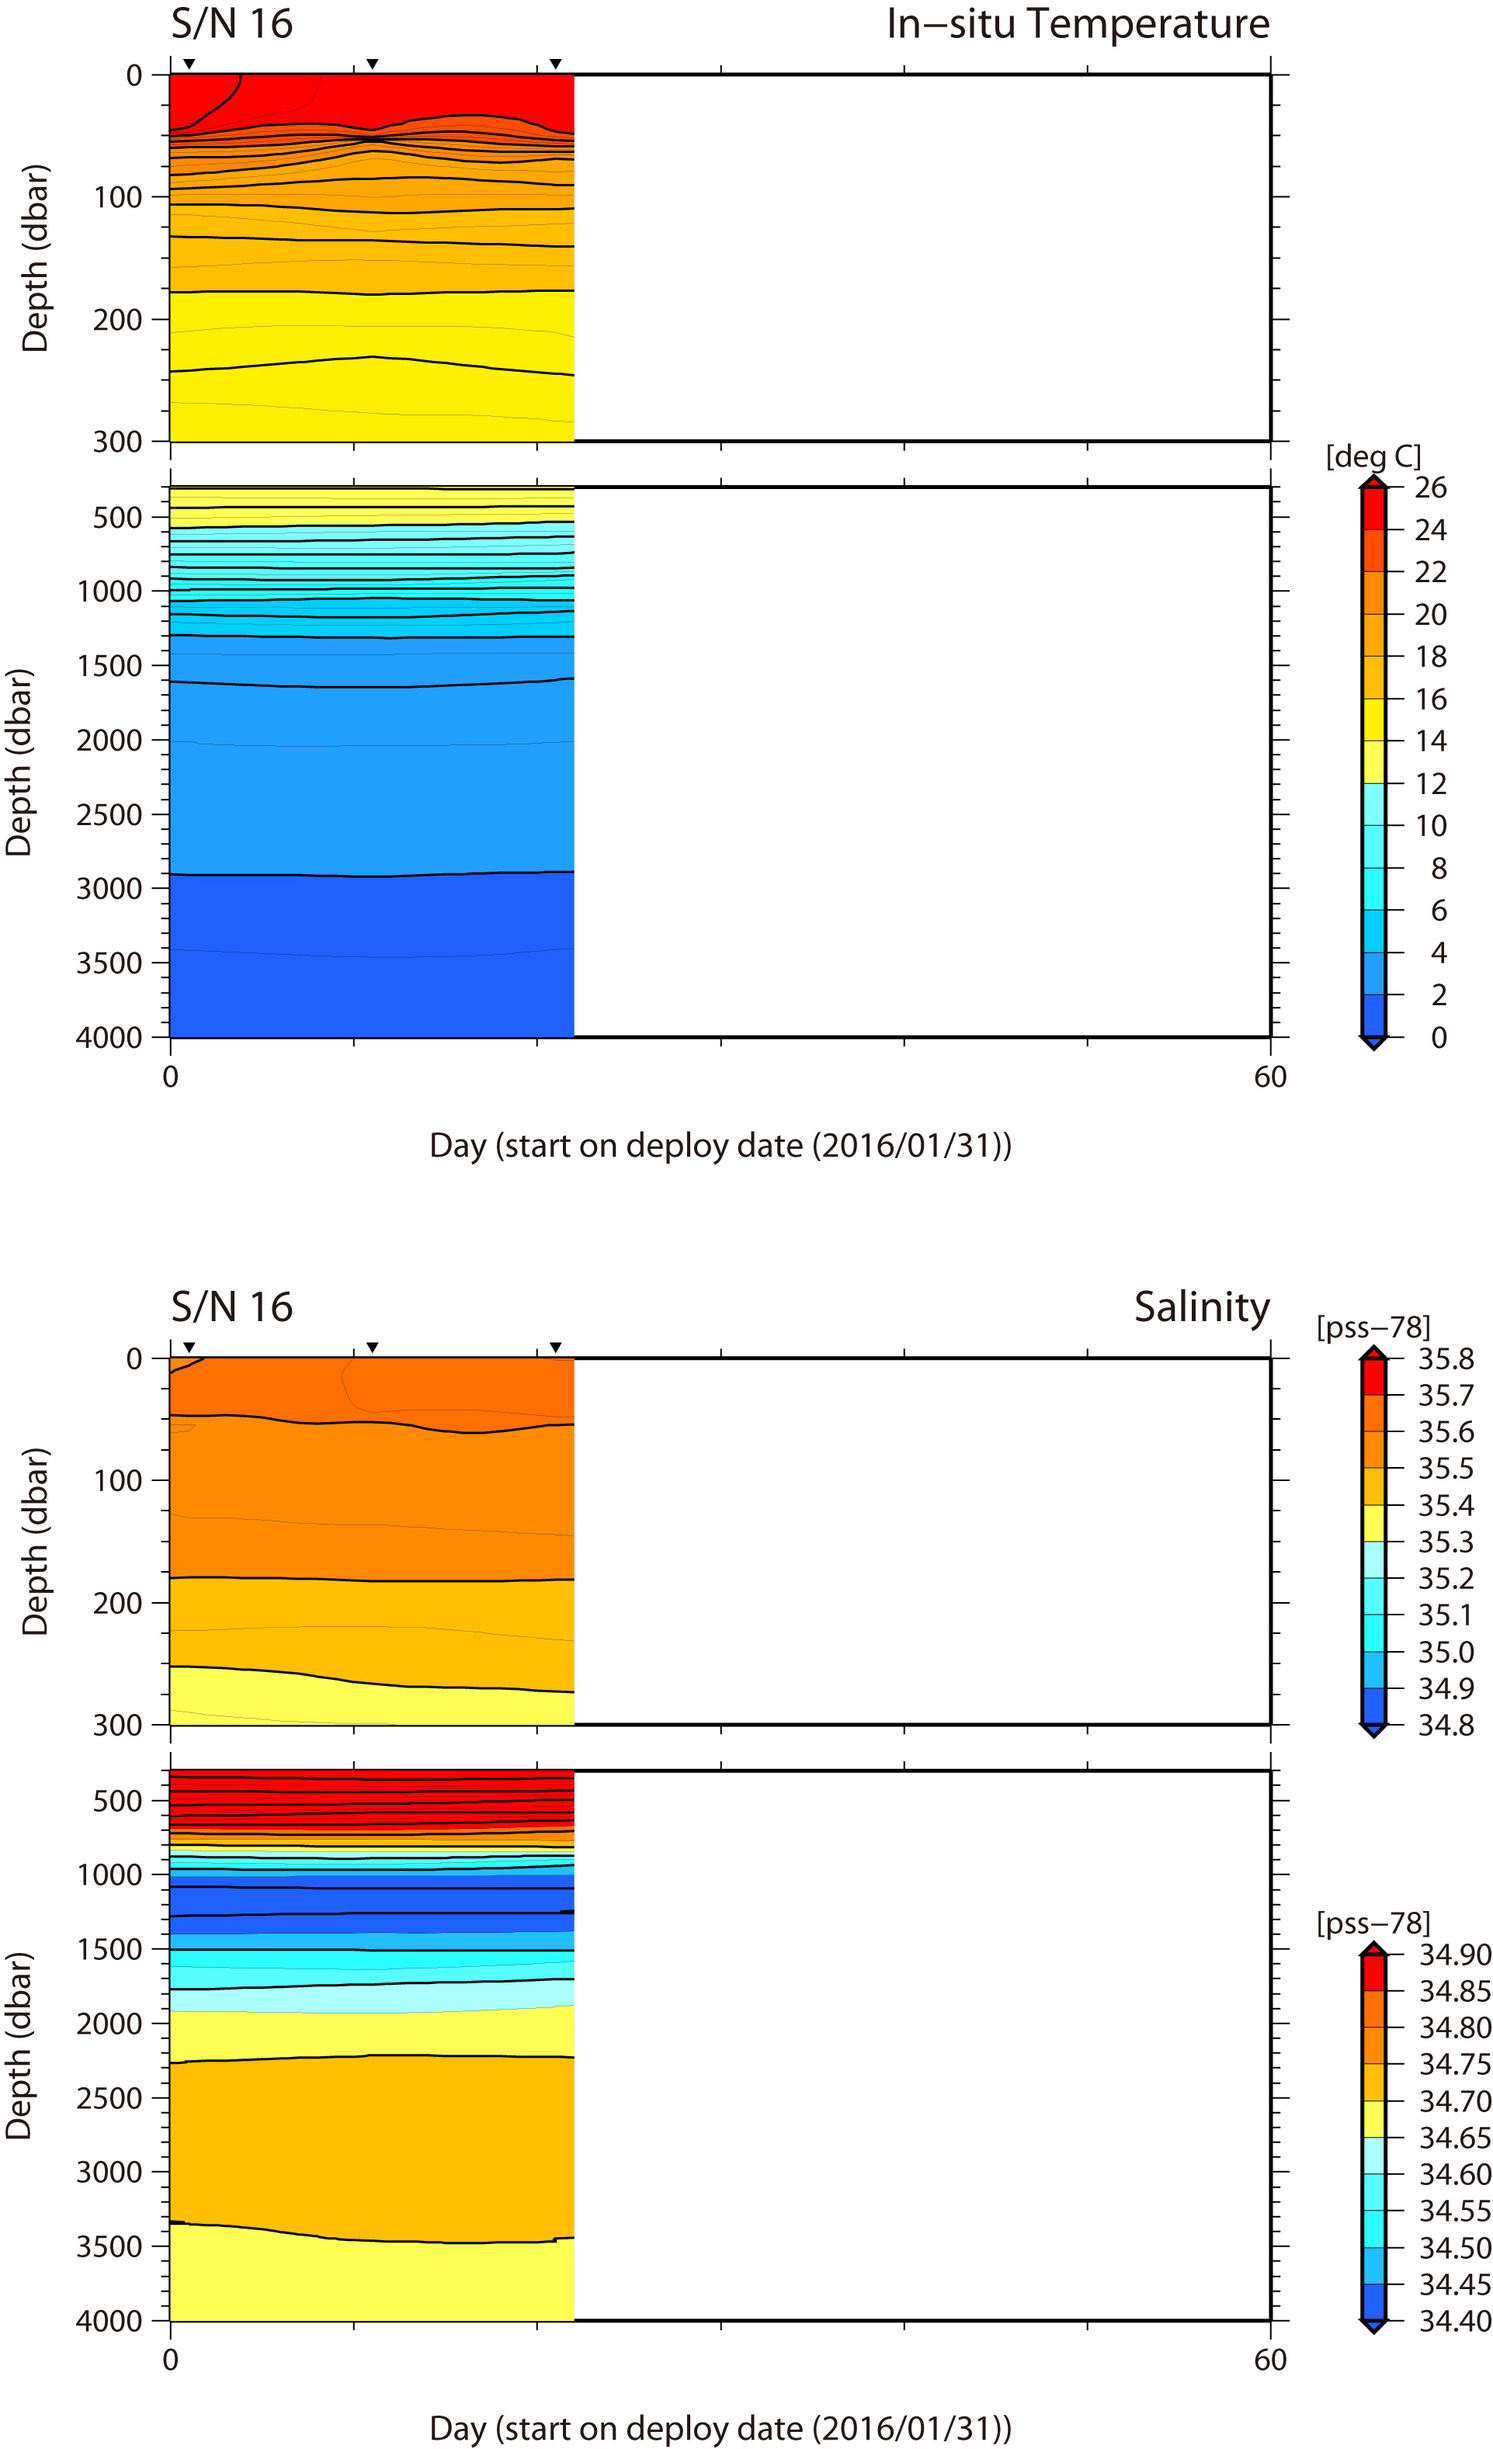
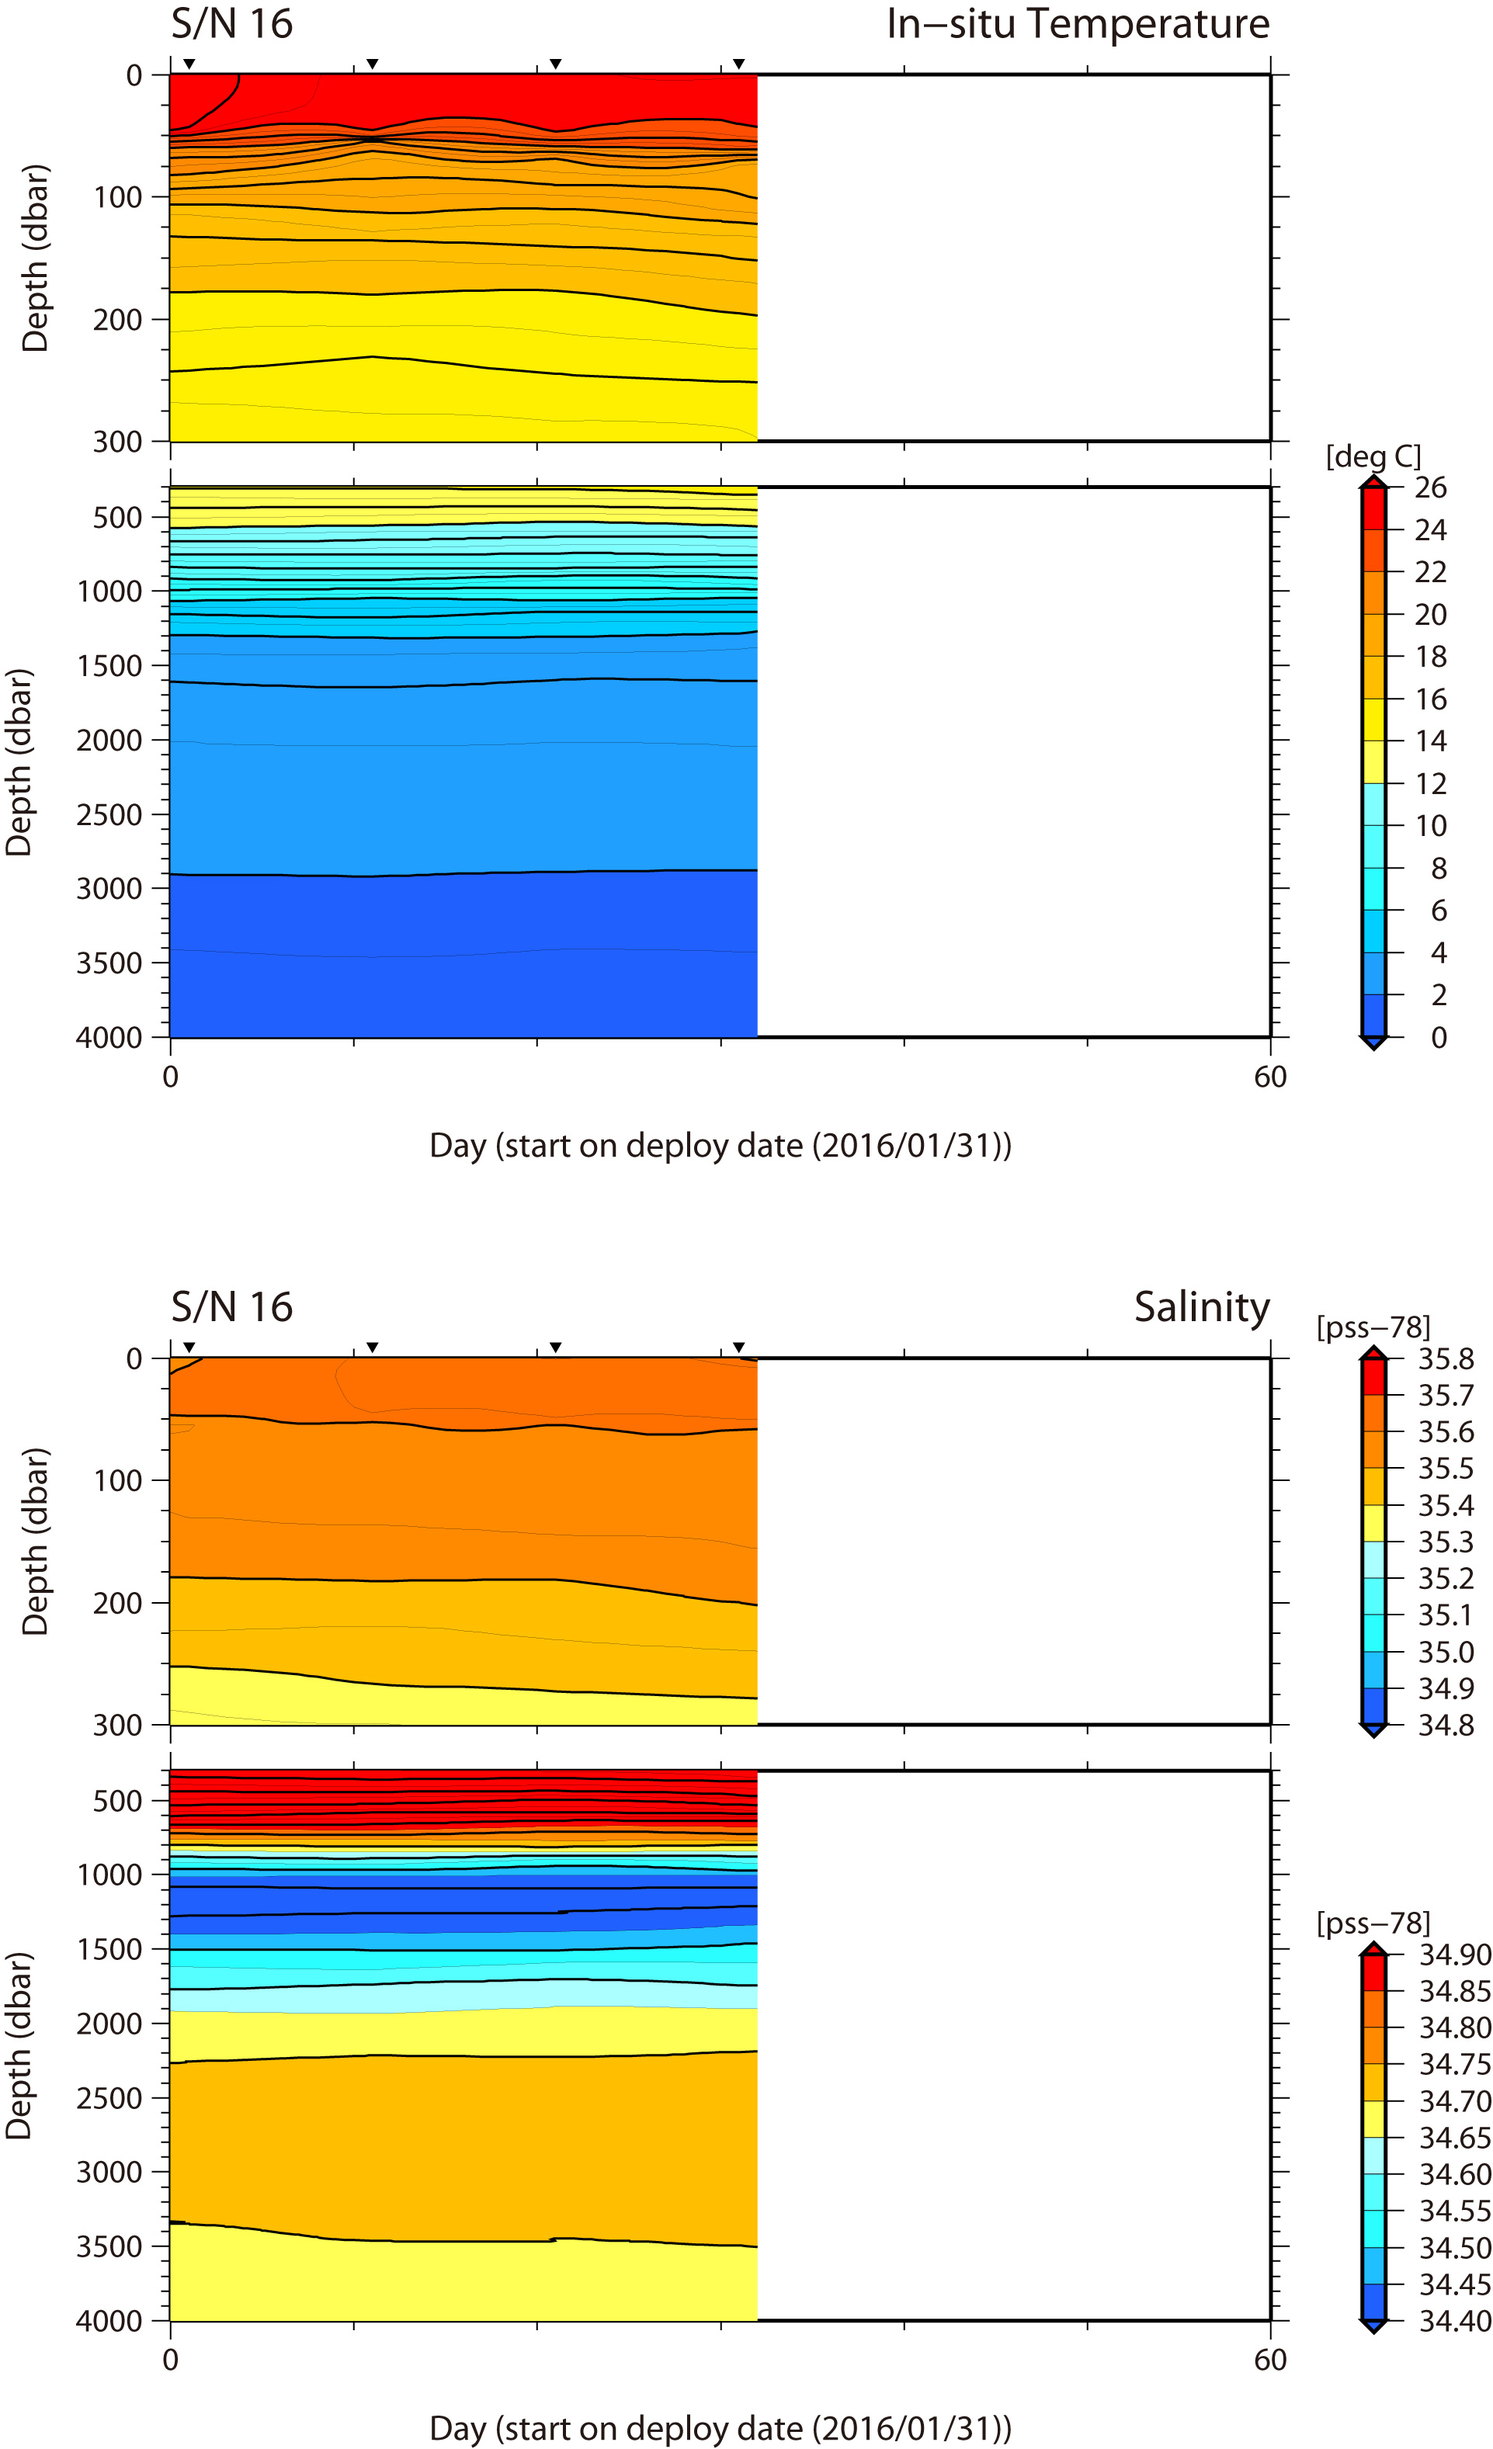
20160314 updated.

diff --git a/index.html b/index.html
@@ -723,7 +723,7 @@ echo'		<h2 class="text-center title">Project Abstract</h2>
 				40 (40)
 			</td>
 			<td>
-				Active
+				Active?
 			</td>
 		</tr>
 		<tr>
@@ -784,7 +784,7 @@ echo'		<h2 class="text-center title">Project Abstract</h2>
                                 4000
                         </td>
                         <td>
-                                3 (3)
+                                4 (4)
                         </td>
                         <td>
                                 Active
@@ -816,12 +816,45 @@ echo'		<h2 class="text-center title">Project Abstract</h2>
                                 4000
                         </td>
                         <td>
-                                3 (3)
+                                4 (4)
                         </td>
                         <td>
                                 Active
                         </td>
                 </tr>
+                <tr>
+                        <td>
+                                18
+                        </td>
+                        <td>
+                                2016/3/2
+                        </td>
+                        <td>
+                                Subtropical, North Pacific
+                        </td>
+                        <td>
+                                29°56.31N  147°27.26E
+                        </td>
+                        <td>
+                                Ryofu-maru
+                        </td>
+                        <td>
+                                10
+                        </td>
+                        <td>
+                                2000
+                        </td>
+                        <td>
+                                4000
+                        </td>
+                        <td>
+                                1 (1)
+                        </td>
+                        <td>
+                                Active
+                        </td>
+                </tr>
+
 
                 </tr>
 
@@ -830,7 +863,7 @@ echo'		<h2 class="text-center title">Project Abstract</h2>
 		<tr>
 		<td>*:Prototype</td>
 			<td colspan=9 align=right>
-				As of Feb 29,2016
+				As of Mar 14,2016
 			</td>
 		</tr>
 	</tbody>
@@ -999,7 +1032,6 @@ echo'		<h2 class="text-center title">Project Abstract</h2>
 					</div>
 				</div>
 			</div>
-
 		</div>
               <div class="row">
                         <div class="col-sm-4 col-sm-offset-2">
@@ -1022,6 +1054,20 @@ echo'		<h2 class="text-center title">Project Abstract</h2>
                         </div>
 
                 </div>
+            <div class="row">
+                        <div class="col-sm-4 col-sm-offset-2">
+                                <div class="thumbnail">
+                                        <img src="assets/images/traj/18-map.jpg" alt="">
+                                        <div class="caption">
+                                                <h3>S/N18</h3>
+                                                <p><a href="assets/images/traj/18-map.jpg" download class="btn btn-primary" role="button">Download</a></p>
+                                        </div>
+                                </div>
+                        </div>
+                        </div>
+
+                </div>
+
 
 
 
@@ -1206,6 +1252,20 @@ echo'		<h2 class="text-center title">Project Abstract</h2>
                         </div>
                 </div>
 
+               <div class="row">
+                        <div class="col-md-4 col-md-offset-2">
+                                <div class="thumbnail">
+                                        <img src="assets/images/time/18-time-profile.jpg" alt="">
+                                        <div class="caption">
+                                                <h3>S/N18</h3>
+                                                <p><a href="assets/images/time/18-time-profile.jpg" download class="btn btn-primary" role="button">Download</a></p>
+                                        </div>
+                                </div>
+                        </div>
+                        <div class="col-md-4">
+                        </div>
+                </div>
+
 
 
 		<div class="row">
@@ -1213,6 +1273,7 @@ echo'		<h2 class="text-center title">Project Abstract</h2>
 				<p class="contents">&copy;Japan Agency for Marine-Earth Science and Technology (JAMSTEC) 2016</p>
 			</div>
 		</div>
+
 
 	</div>
 </section>
